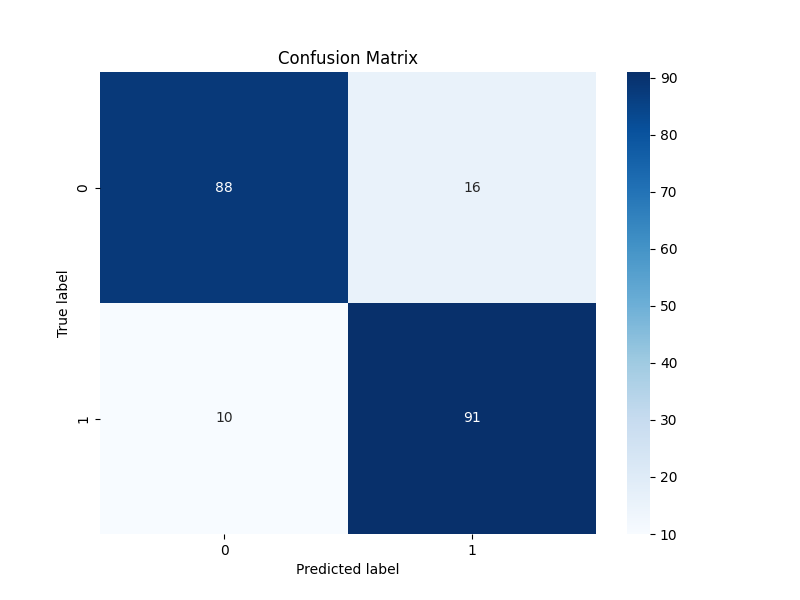
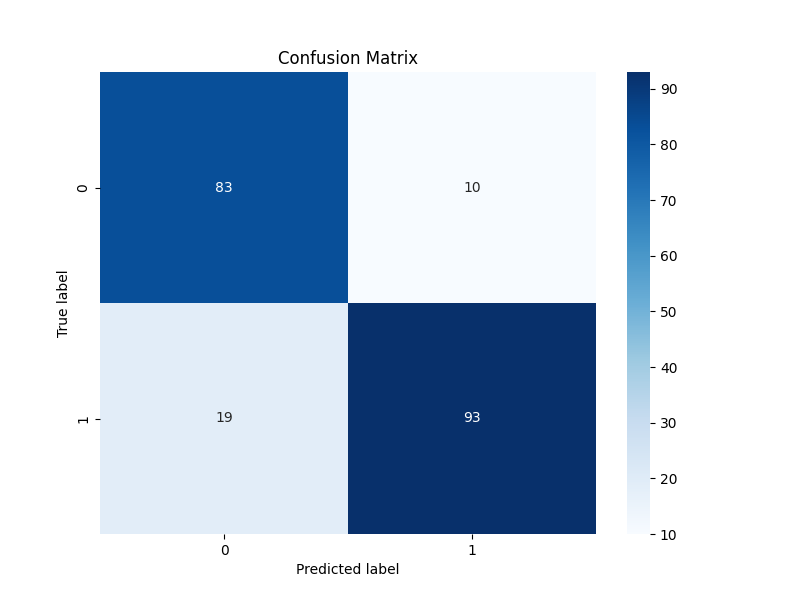
bug fixed

diff --git a/modelMenu.py b/modelMenu.py
@@ -30,9 +30,9 @@ class Ui_ModelMenu(QtWidgets.QDialog):
         dataset_info = get_info_dataset(self.dataset)
         self.datasetInfo.setText(f"Veri setindedeki\n1 sınıfına ait örnek sayısı: {dataset_info[0]}\n0 sınıfına ait örnek sayısı: {dataset_info[1]}")
 
-        self.button1.clicked.connect(self.useKNN)
-        self.button2.clicked.connect(self.useDecisionTree)
-        self.button3.clicked.connect(self.useSVM)
+        self.button1.clicked.connect(lambda:self.go_to_result(self.useKNN))
+        self.button2.clicked.connect(lambda:self.go_to_result(self.useDecisionTree))
+        self.button3.clicked.connect(lambda:self.go_to_result(self.useDecisionTree))
         self.backButton.clicked.connect(self.go_back)
 
     def useKNN(self):
@@ -43,8 +43,6 @@ class Ui_ModelMenu(QtWidgets.QDialog):
         else:
             self.cm = hold_out(self.dataset, model)
 
-        self.go_to_result()
-
     def useDecisionTree(self):
         model = DecisionTreeClassifier()
         self.cm = hold_out(self.dataset, model)
@@ -53,8 +51,6 @@ class Ui_ModelMenu(QtWidgets.QDialog):
             self.cm = kfold(self.dataset, model)
         else:
             self.cm = hold_out(self.dataset, model)
-
-        self.go_to_result()
 
     def useSVM(self):
         model = SVC(kernel='linear')
@@ -65,9 +61,12 @@ class Ui_ModelMenu(QtWidgets.QDialog):
         else:
             self.cm = hold_out(self.dataset, model)
 
-        self.go_to_result()
+    def useBest(self):
+        if(self.checkBox.isChecked()):
+            pass
 
-    def go_to_result(self):
+    def go_to_result(self, useModel):
+        useModel() # modeli çalıştır.
         self.result_window = result.Ui_Result(self, self.cm)
         self.result_window.show()
         self.hide()  # Ana pencereyi gizle
